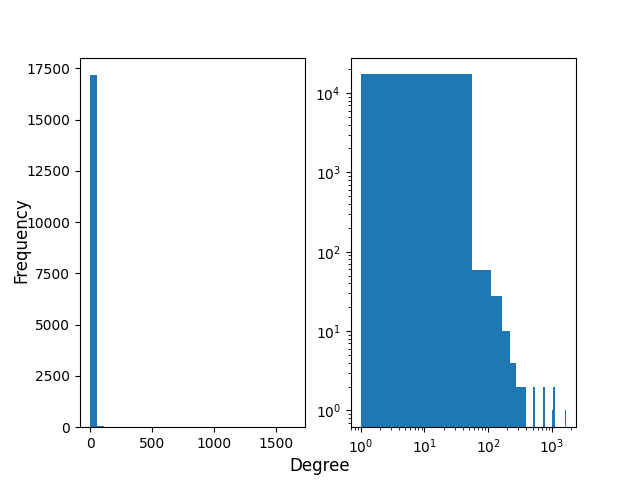
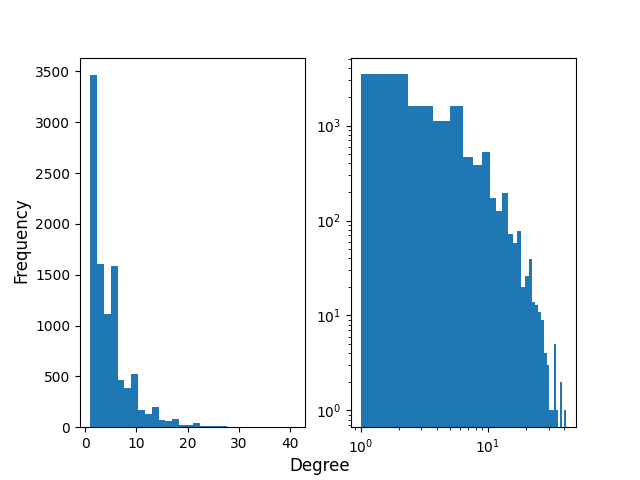
Added pareto analysis

diff --git a/main.py b/main.py
@@ -1,9 +1,12 @@
+from re import sub
+from typing import List
 from networkx.algorithms.core import k_core
 from networkx.algorithms.distance_measures import diameter
 from networkx.classes.digraph import DiGraph
 from networkx.classes.function import degree
 from networkx.classes.graph import Graph
 from networkx.classes.multidigraph import MultiDiGraph
+from networkx.classes.multigraph import MultiGraph
 from networkx.readwrite import text
 from numpy import log
 import requests
@@ -13,6 +16,7 @@ import os
 import pandas as pd
 import networkx as nx
 import matplotlib.pyplot as plt
+from scipy import stats
 
 
 def get_last_block() -> int:
@@ -143,8 +147,9 @@ def data_enrichment():
                  for file in punk_data_files]
     punk_data = pd.concat(punk_data)
     punk_data.sort_values(by=["id"], inplace=True)
-    punk_data.to_csv("./punks_data/0-9999.csv",index=False)
-    punk_data.rename(columns={"type": "punk_type", "id":"punk_id"}, inplace=True)
+    punk_data.to_csv("./punks_data/0-9999.csv", index=False)
+    punk_data.rename(columns={"type": "punk_type",
+                     "id": "punk_id"}, inplace=True)
     logs_data = logs_data.merge(punk_data.iloc[:, 0: 2], on="punk_id")
     logs_data.sort_values(by=['timestamp'], inplace=True)
     logs_data.to_csv("./out/all_exchanges.csv", index=False, mode='w')
@@ -161,21 +166,22 @@ def data_split():
     zombie_data.to_csv("./out/zombie_exchanges.csv", index=False)
     alien_data = logs_data.loc[logs_data["punk_type"] == "Alien"]
     alien_data.to_csv("./out/alien_exchanges.csv", index=False)
-    
 
-def add_rare_freq(fg:MultiDiGraph):
+
+def add_rare_freq(fg: MultiDiGraph):
     logs_data = pd.read_csv("./out/all_exchanges.csv")
-    logs_data = logs_data.loc[logs_data["punk_type"]!="Human"].value_counts(subset="target")
-    #logs_data.to_csv("./out/account_info.csv")
+    logs_data = logs_data.loc[logs_data["punk_type"]
+                              != "Human"].value_counts(subset="target")
+    # logs_data.to_csv("./out/account_info.csv")
     logs_data = logs_data.to_dict()
     for node in fg.nodes():
         if node in logs_data:
             fg.nodes[node]["rare_freq"] = logs_data[node]
         else:
             fg.nodes[node]["rare_freq"] = 0
-    
 
-def add_node_type(bg:MultiDiGraph):
+
+def add_node_type(bg: MultiDiGraph):
     punk_data = pd.read_csv('./punks_data/0-9999.csv')
     for node in bg.nodes():
         if node in punk_data["id"]:
@@ -227,16 +233,25 @@ def graphs_creation():
     return fg, cg, rg, bg
 
 
-def graph_analysis(matrix: MultiDiGraph, graph_name: str):
-    # graph name is used while saving images and for analysis
-    # TODO: rimuovere nodi con degree < 1? Significa che hanno riscattato il token e non lo hanno mai usato
-    # matrix.remove_node(__NULL_ADDRESS)
-    # Degree analysis
-    matrix = matrix.to_undirected()
-    flat_matrix = nx.Graph(matrix)
-    flat_matrix.remove_edges_from(nx.selfloop_edges(flat_matrix)) #TODO: Provare come cambia con e senza
-    degrees = [degree for node, degree in matrix.degree()]
-    fig, (ax1, ax2) = plt.subplots(1, 2, sharex = False, sharey=False)
+def deg_distr_analysis(degrees: List, graph_name: str):
+    # Pareto analysis
+    # Copy values, needed because for pareto analysis we need to order the list,
+    # but for correlation analysis we need the original order of the elements
+    degrees = degrees[:]
+    degrees.sort()
+    degrees.reverse()
+    degree_sum = sum(degrees)
+    total_nodes = len(degrees)
+    sub_total = 0
+    for i in range(0, total_nodes):
+        sub_total += degrees[i]
+        percentage = (sub_total/degree_sum)*100
+        if percentage >= 80:
+            print((i/total_nodes)*100, "% nodes are involved in ",
+                  percentage, "% of exchanges")
+            break
+    # Plot degree distr
+    fig, (ax1, ax2) = plt.subplots(1, 2, sharex=False, sharey=False)
     ax1.hist(degrees, bins=30)
     ax2.hist(degrees, bins=30)
     ax2.set_yscale("log")
@@ -244,35 +259,67 @@ def graph_analysis(matrix: MultiDiGraph, graph_name: str):
     fig.supxlabel('Degree')
     fig.supylabel('Frequency')
     fig.savefig('./out/'+graph_name+"_deg_dist")
+    plt.clf()
+
+
+def graph_analysis(mdg: MultiDiGraph, graph_name: str):
+    # graph name is used while saving images and for analysis
+    # TODO: rimuovere nodi con degree < 1? Significa che hanno riscattato il token e non lo hanno mai usato
+    # matrix.remove_node(__NULL_ADDRESS)
+    mg: MultiGraph = mdg.to_undirected()
+    g = nx.Graph(mdg)
+    # TODO: Provare come cambia con e senza
+    g.remove_edges_from(nx.selfloop_edges(g))
     if graph_name != "bg":
+        # Degree analysis
+        degrees = [degree for node, degree in mg.degree()]
+        deg_distr_analysis(degrees, graph_name)
         # Average path lenght
-        avg_path = nx.algorithms.average_shortest_path_length(matrix)
+        avg_path = nx.algorithms.average_shortest_path_length(mg)
         print("Average path length: ", avg_path)
         # Diameter
-        diameter = nx.algorithms.diameter(matrix)
+        diameter = nx.algorithms.diameter(mg)
         print("Diameter: ", diameter)
         # Clustering coefficent
-        c_coefficent = nx.algorithms.average_clustering(flat_matrix)
+        c_coefficent = nx.algorithms.average_clustering(g)
         print("Clustering coefficent: ", c_coefficent)
         # k-cores analysis
-        n_nodes = range(1,15)
-        k_cores = [nx.algorithms.k_core(flat_matrix,k).order() for k in n_nodes]
+        n_nodes = range(1, 15)
+        k_cores = [nx.algorithms.k_core(
+            g, k).order() for k in n_nodes]
         print("K-cores analysis: ", k_cores)
-        plt.clf()
         plt.plot(n_nodes, k_cores)
         plt.xlabel("K")
         plt.ylabel("Nodes")
         plt.savefig('./out/'+graph_name+"_k_cores")
-        #Homophily
-        degree_assort = nx.algorithms.degree_assortativity_coefficient(matrix)
-        rarity_assort = nx.algorithms.numeric_assortativity_coefficient(flat_matrix, attribute="rare_freq")
-        print("Homophily degree: ", degree_assort, " Homophily rarity: ", rarity_assort)
+        # Homophily
+        degree_assort = nx.algorithms.degree_assortativity_coefficient(mg)
+        rarity_assort = nx.algorithms.numeric_assortativity_coefficient(
+            g, attribute="rare_freq")
+        print("Homophily degree: ", degree_assort,
+              " Homophily rarity: ", rarity_assort)
     else:
-        pass
+        degrees = [degree for node, degree in mg.degree()
+                   if node in range(0, 10001)]
+        deg_distr_analysis(degrees, graph_name)
+        node_type = [values["node_type"] for id, values in mg.nodes(
+            data=True) if id in range(0, 10001)]
+        plt.scatter(node_type, degrees)
+        plt.xlabel("node_type")
+        plt.ylabel("degree")
+        plt.legend(["0: Humans\n1: Apes\n2: Aliens\n3: Zombies"])
+        plt.savefig('./out/'+graph_name+"_type_deg")
+        r_coefficent = stats.pearsonr(node_type, degrees)
+        print("Pearson coefficent. r: ",
+              r_coefficent[0], " p: ", r_coefficent[1])
 
 
-def debug(data):
-    print(data.nodes(data=True))
+def debug(data: MultiDiGraph):
+    data = data.to_undirected()
+    degrees = [node for node, degree in data.degree()
+               if node in range(0, 10001)]
+    node_type = [id for id, values in data.nodes(
+        data=True) if id in range(0, 10001)]
 
 
 if __name__ == "__main__":
@@ -293,7 +340,7 @@ if __name__ == "__main__":
     '''Edgelist of the bipartite graph Nft - owner'''
     # nx.to_pandas_edgelist(bg).to_csv(
     #    ./out/bipartite.csv", index=False, mode="w")
-    #debug(bg)
-    #graph_analysis(fg,"fg")
-    #graph_analysis(bg,"bg")
+    # debug(bg)
+    graph_analysis(fg, "fg")
+    graph_analysis(bg, "bg")
     pass
